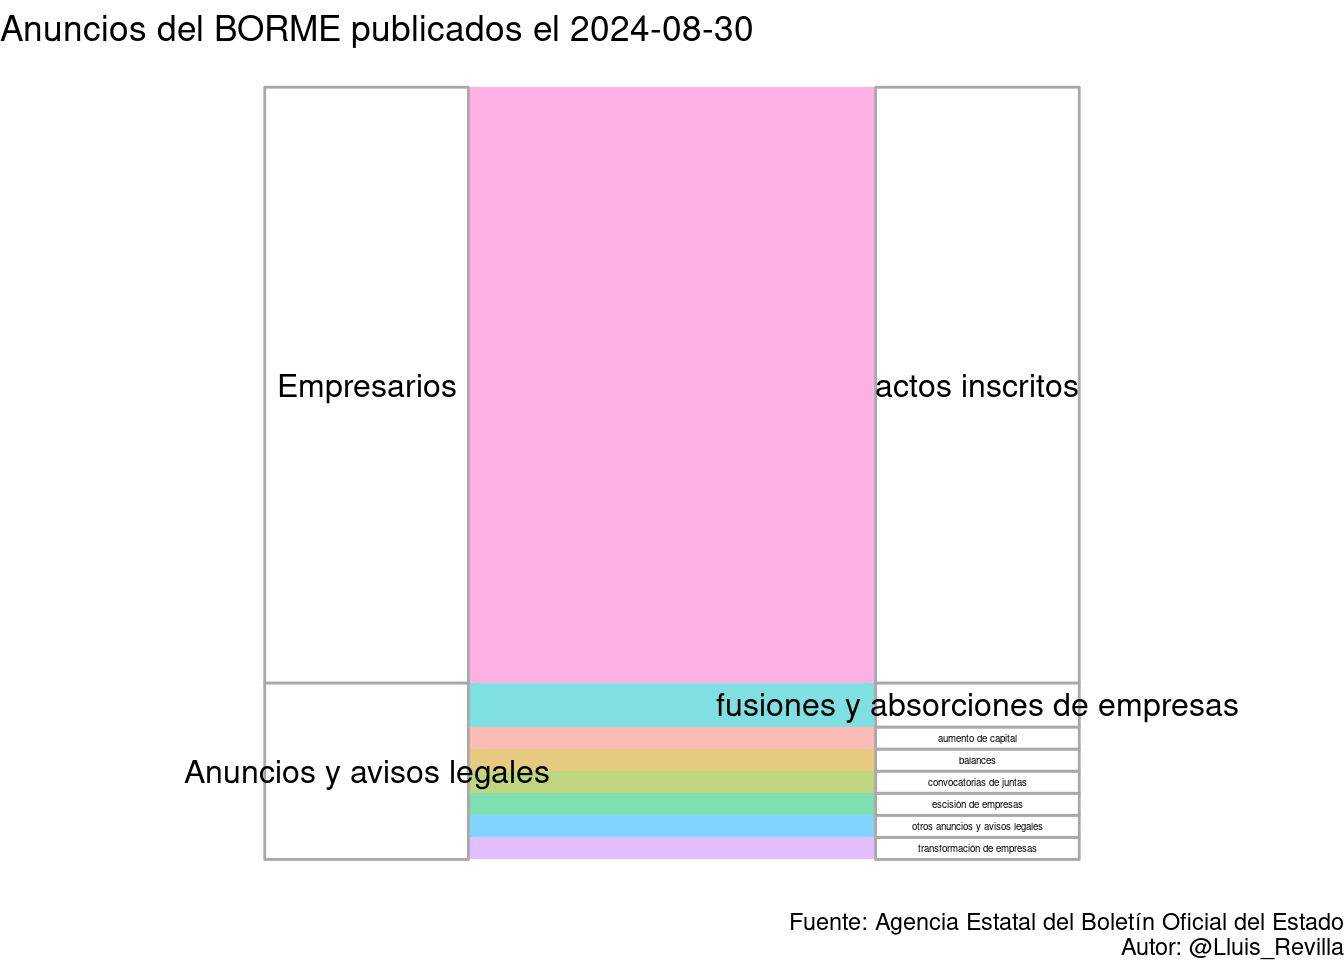
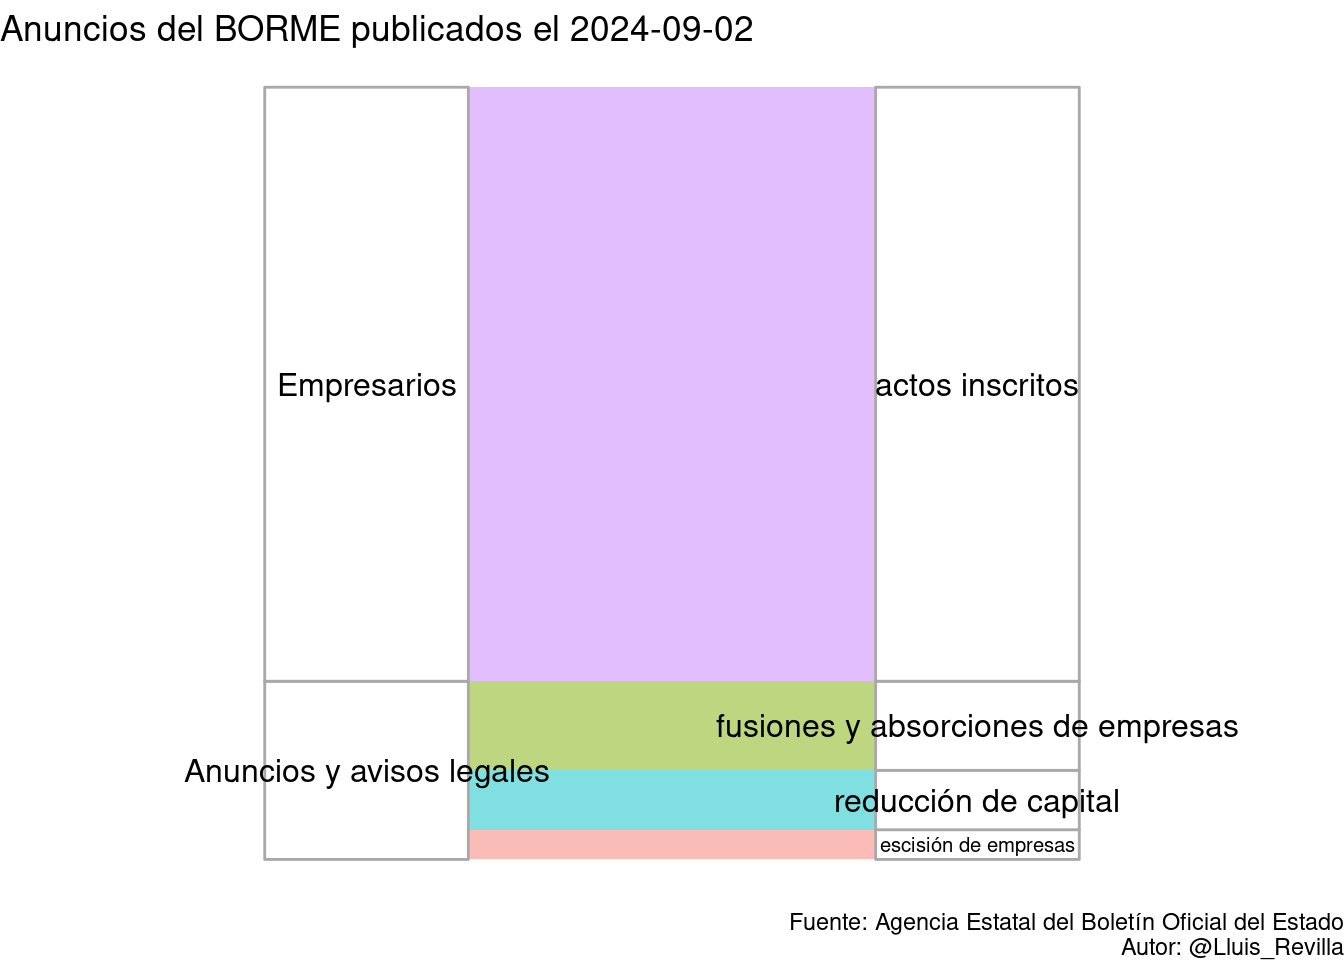
Update BORME

Changed region(s): [[0.1875, 0.0938, 0.9375, 0.9062], [0.5312, 0.0, 0.5625, 0.0625]]

diff --git a/docs/last_BORME.html b/docs/last_BORME.html
@@ -32,6 +32,18 @@
 <script src="site_libs/navigation-1.1/tabsets.js"></script>
 <link href="site_libs/highlightjs-9.12.0/default.css" rel="stylesheet" />
 <script src="site_libs/highlightjs-9.12.0/highlight.js"></script>
+<script src="site_libs/htmlwidgets-1.6.2/htmlwidgets.js"></script>
+<link href="site_libs/datatables-css-0.0.0/datatables-crosstalk.css" rel="stylesheet" />
+<script src="site_libs/datatables-binding-0.31/datatables.js"></script>
+<link href="site_libs/dt-core-1.13.6/css/jquery.dataTables.min.css" rel="stylesheet" />
+<link href="site_libs/dt-core-1.13.6/css/jquery.dataTables.extra.css" rel="stylesheet" />
+<script src="site_libs/dt-core-1.13.6/js/jquery.dataTables.min.js"></script>
+<link href="site_libs/nouislider-7.0.10/jquery.nouislider.min.css" rel="stylesheet" />
+<script src="site_libs/nouislider-7.0.10/jquery.nouislider.min.js"></script>
+<link href="site_libs/selectize-0.12.0/selectize.bootstrap3.css" rel="stylesheet" />
+<script src="site_libs/selectize-0.12.0/selectize.min.js"></script>
+<link href="site_libs/crosstalk-1.2.1/css/crosstalk.min.css" rel="stylesheet" />
+<script src="site_libs/crosstalk-1.2.1/js/crosstalk.min.js"></script>
 <link href="site_libs/font-awesome-6.4.2/css/all.min.css" rel="stylesheet" />
 <link href="site_libs/font-awesome-6.4.2/css/v4-shims.min.css" rel="stylesheet" />
 <script async src="https://www.googletagmanager.com/gtag/js?id=UA-57101844-6"></script>
@@ -365,7 +377,17 @@ $(document).ready(function () {
 </div>
 
 
-<p>Sorry tody I couldn’t retrieve the results</p>
+<div id="resumen-gráfico" class="section level1">
+<h1>Resumen gráfico</h1>
+<p>Esta página web contiene el último sumario del BORME publicado el 2024-09-02 con 26 publicaciones.</p>
+<p><img src="last_BORME_files/figure-html/graphics-1.png" width="672" /></p>
+</div>
+<div id="tabla-de-publicaciones" class="section level1">
+<h1>Tabla de publicaciones</h1>
+<p>Aquí está la tabla completa con enlaces a las publicaciones:</p>
+<div class="datatables html-widget html-fill-item-overflow-hidden html-fill-item" id="htmlwidget-17028d5553c6492c3e2e" style="width:100%;height:auto;"></div>
+<script type="application/json" data-for="htmlwidget-17028d5553c6492c3e2e">{"x":{"filter":"top","vertical":false,"filterHTML":"<tr>\n  <td><\/td>\n  <td data-type=\"character\" style=\"vertical-align: top;\">\n    <div class=\"form-group has-feedback\" style=\"margin-bottom: auto;\">\n      <input type=\"search\" placeholder=\"All\" class=\"form-control\" style=\"width: 100%;\"/>\n      <span class=\"glyphicon glyphicon-remove-circle form-control-feedback\"><\/span>\n    <\/div>\n  <\/td>\n  <td data-type=\"character\" style=\"vertical-align: top;\">\n    <div class=\"form-group has-feedback\" style=\"margin-bottom: auto;\">\n      <input type=\"search\" placeholder=\"All\" class=\"form-control\" style=\"width: 100%;\"/>\n      <span class=\"glyphicon glyphicon-remove-circle form-control-feedback\"><\/span>\n    <\/div>\n  <\/td>\n  <td data-type=\"character\" style=\"vertical-align: top;\">\n    <div class=\"form-group has-feedback\" style=\"margin-bottom: auto;\">\n      <input type=\"search\" placeholder=\"All\" class=\"form-control\" style=\"width: 100%;\" disabled=\"\"/>\n      <span class=\"glyphicon glyphicon-remove-circle form-control-feedback\"><\/span>\n    <\/div>\n  <\/td>\n  <td data-type=\"character\" style=\"vertical-align: top;\">\n    <div class=\"form-group has-feedback\" style=\"margin-bottom: auto;\">\n      <input type=\"search\" placeholder=\"All\" class=\"form-control\" style=\"width: 100%;\"/>\n      <span class=\"glyphicon glyphicon-remove-circle form-control-feedback\"><\/span>\n    <\/div>\n  <\/td>\n<\/tr>","data":[["1","2","3","4","5","6","7","8","9","10","11","12","13","14","15","16","17","18","19","20","21","22","23","24","25","26"],["SECCIÓN PRIMERA. Empresarios","SECCIÓN PRIMERA. Empresarios","SECCIÓN PRIMERA. Empresarios","SECCIÓN PRIMERA. Empresarios","SECCIÓN PRIMERA. Empresarios","SECCIÓN PRIMERA. Empresarios","SECCIÓN PRIMERA. Empresarios","SECCIÓN PRIMERA. Empresarios","SECCIÓN PRIMERA. Empresarios","SECCIÓN PRIMERA. Empresarios","SECCIÓN PRIMERA. Empresarios","SECCIÓN PRIMERA. Empresarios","SECCIÓN PRIMERA. Empresarios","SECCIÓN PRIMERA. Empresarios","SECCIÓN PRIMERA. Empresarios","SECCIÓN PRIMERA. Empresarios","SECCIÓN PRIMERA. Empresarios","SECCIÓN PRIMERA. Empresarios","SECCIÓN PRIMERA. Empresarios","SECCIÓN PRIMERA. Empresarios","SECCIÓN SEGUNDA. Anuncios y avisos legales","SECCIÓN SEGUNDA. Anuncios y avisos legales","SECCIÓN SEGUNDA. Anuncios y avisos legales","SECCIÓN SEGUNDA. Anuncios y avisos legales","SECCIÓN SEGUNDA. Anuncios y avisos legales","SECCIÓN SEGUNDA. Anuncios y avisos legales"],["Actos inscritos","Actos inscritos","Actos inscritos","Actos inscritos","Actos inscritos","Actos inscritos","Actos inscritos","Actos inscritos","Actos inscritos","Actos inscritos","Actos inscritos","Actos inscritos","Actos inscritos","Actos inscritos","Actos inscritos","Actos inscritos","Actos inscritos","Actos inscritos","Actos inscritos","Actos inscritos","FUSIONES Y ABSORCIONES DE EMPRESAS","FUSIONES Y ABSORCIONES DE EMPRESAS","FUSIONES Y ABSORCIONES DE EMPRESAS","ESCISIÓN DE EMPRESAS","REDUCCIÓN DE CAPITAL","REDUCCIÓN DE CAPITAL"],[null,null,null,null,null,null,null,null,null,null,null,null,null,null,null,null,null,null,null,null,null,null,null,null,null,null],["BORME-A-2024-168-03","BORME-A-2024-168-07","BORME-A-2024-168-08","BORME-A-2024-168-10","BORME-A-2024-168-12","BORME-A-2024-168-15","BORME-A-2024-168-17","BORME-A-2024-168-24","BORME-A-2024-168-28","BORME-A-2024-168-29","BORME-A-2024-168-30","BORME-A-2024-168-31","BORME-A-2024-168-32","BORME-A-2024-168-33","BORME-A-2024-168-36","BORME-A-2024-168-43","BORME-A-2024-168-45","BORME-A-2024-168-46","BORME-A-2024-168-47","BORME-A-2024-168-99","BORME-C-2024-5015","BORME-C-2024-5016","BORME-C-2024-5017","BORME-C-2024-5018","BORME-C-2024-5019","BORME-C-2024-5020"]],"container":"<table class=\"display\">\n  <thead>\n    <tr>\n      <th> <\/th>\n      <th>Sección<\/th>\n      <th>Emisor<\/th>\n      <th>Texto<\/th>\n      <th>Link<\/th>\n    <\/tr>\n  <\/thead>\n<\/table>","options":{"pageLength":10,"autoWidth":true,"columnDefs":[{"orderable":false,"targets":0},{"name":" ","targets":0},{"name":"Sección","targets":1},{"name":"Emisor","targets":2},{"name":"Texto","targets":3},{"name":"Link","targets":4}],"order":[],"orderClasses":false,"orderCellsTop":true}},"evals":[],"jsHooks":[]}</script>
+</div>
 
 
 
